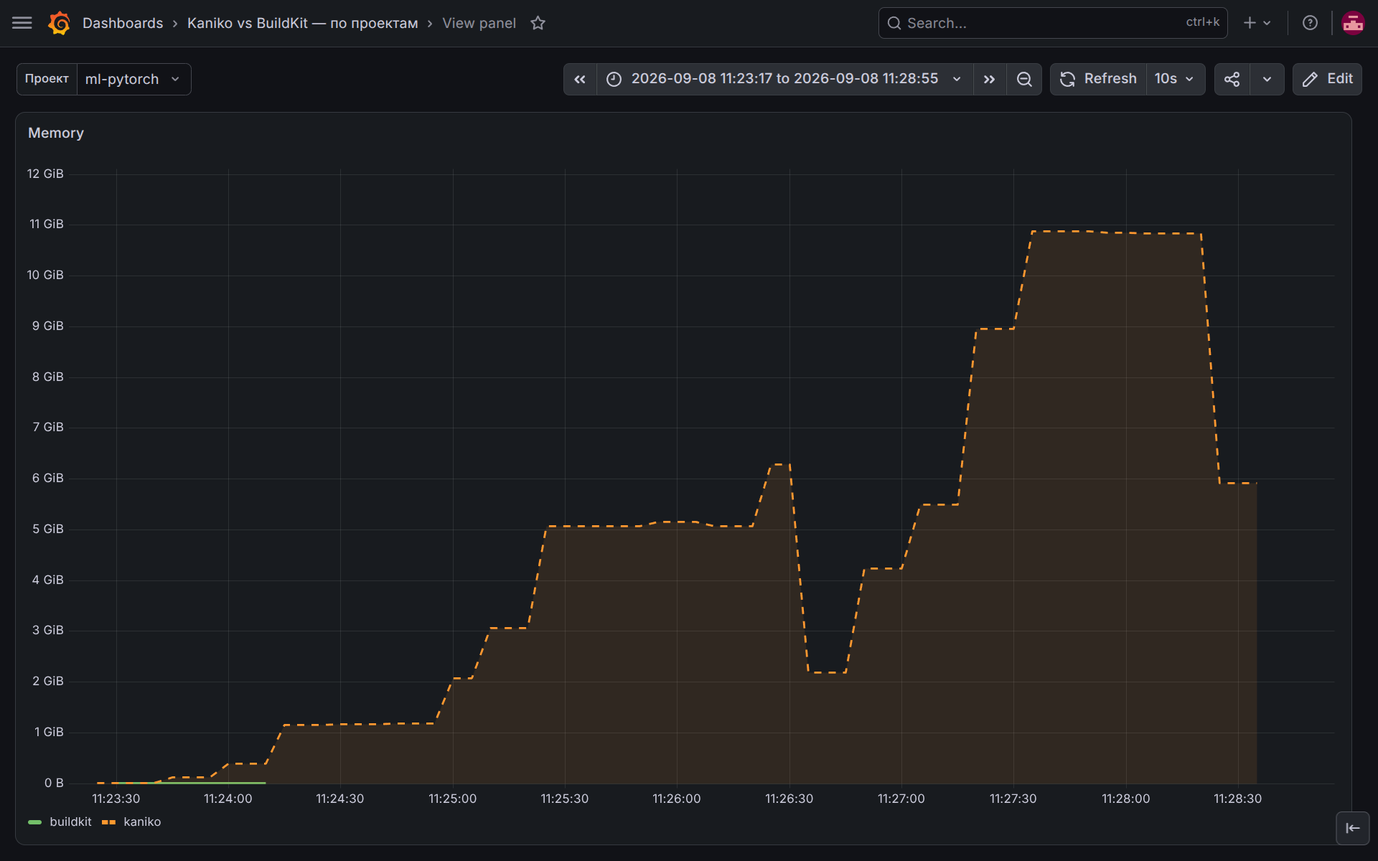
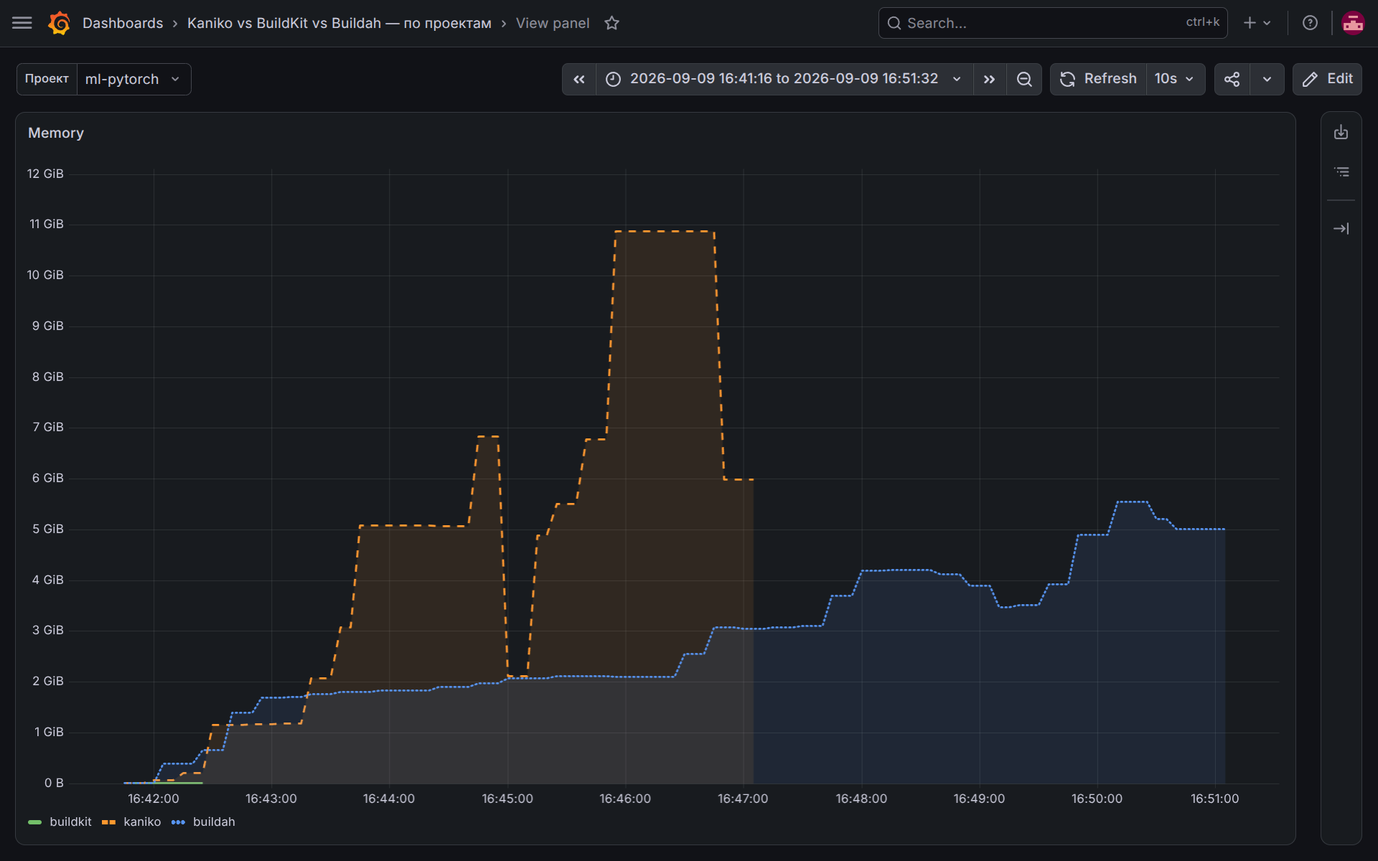
add Buildah to the benchmark

diff --git a/README.md b/README.md
@@ -1,17 +1,22 @@
-# Kaniko vs BuildKit: замеряем время, CPU и память сборки в кластере
+# Kaniko vs BuildKit vs Buildah: замеряем время, CPU и память сборки в кластере
 
 ## Введение
 
 В Kubernetes-кластере рано или поздно встаёт вопрос: **где собирать Docker image приложений?** Вариант «на своей машине разработчика» не масштабируется на команду. Вынос сборок на отдельную виртуальную машину решает эту проблему, но создаёт накладные расходы на обслуживание инфраструктуры и лишает ключевых преимуществ k8s: отдельная ВМ не масштабируется горизонтально под нагрузку, параллельные джобы конкурируют за общие CPU, RAM и диск, а накапливающийся кэш требует регулярной очистки.
 
-Классических ответов два — **Kaniko** и **BuildKit**. Kubernetes executor с использованием **Kaniko** или **BuildKit** лишен этих недостатков: сборка происходит в изолированных подах прямо на нодах кластера, ресурсы динамически масштабируются, а виртуальные машины для Docker-демона больше не требуются.
+Kubernetes executor с **Kaniko**, **BuildKit** или **Buildah** лишён этих недостатков: сборка происходит в изолированных подах прямо на нодах кластера, ресурсы динамически масштабируются, а виртуальные машины для Docker-демона больше не требуются.
 
 - **Kaniko** ([GoogleContainerTools/kaniko](https://github.com/GoogleContainerTools/kaniko)) — инструмент от Google для сборки без privileged-контейнера. С июня 2025 года репозиторий архивирован и проект больше не развивается.
 - **BuildKit** ([moby/buildkit](https://github.com/moby/buildkit)) — стандартный движок `docker build`, работающий в k8s в daemonless и rootless-режиме без привилегий ноды.
+- **Buildah** ([containers/buildah](https://github.com/podman-container-tools/buildah)) — daemonless-сборка OCI-образов (`buildah bud`) без Docker-демона. В этом стенде — образ `quay.io/buildah/stable:v1.43.2`, rootless `bud` с `--layers` и registry-кэшем (`--cache-from` / `--cache-to`).
 
-В этой статье будет протестировано **5 проектов** разных языков и фреймворков собираются обоими инструментами в одних и тех же условиях, с замером времени, потребления CPU/RAM и поведения кэша. В конце — **итоговая сводная таблица** и разбор **преимуществ и недостатков** каждого подхода для продакшна.
+**DinD не используется.** Docker-in-Docker требует `privileged = true`. В GitLab Runner (kubernetes executor) флаг `privileged` задаётся на уровне раннера, а не джоба: для DinD пришлось бы заводить **отдельный** GitLab Runner с `privileged = true` и другим тегом. Текущий раннер `k8s-benchmark` держит `privileged = false` — иначе условия замеров Kaniko / BuildKit / Buildah ломаются. Стенд выбран как раз ради сборки без привилегий.
 
-**Кэш.** Оба инструмента используют только registry-кэш. Локальный кэш на ноде намеренно не используется — он копится на диске и требует очистки. Registry-кэш чистить не нужно: манифест кэша перезаписывается на каждом прогоне, а мусор подчищает garbage collection реестра. Хранясь вне пода, он переживает пересоздание и смену ноды.
+В этой статье будет протестировано **5 проектов** разных языков и фреймворков, которые собираются тремя инструментами в одних и тех же условиях, с замером времени, потребления CPU/RAM и поведения кэша. В конце — **итоговая сводная таблица** и разбор **преимуществ и недостатков** каждого подхода для продакшна.
+
+**Кэш.** Все три инструмента используют только registry-кэш. Локальный кэш на ноде намеренно не используется — он копится на диске и требует очистки. Registry-кэш чистить не нужно: манифест кэша перезаписывается на каждом прогоне, а мусор подчищает garbage collection реестра. Хранясь вне пода, он переживает пересоздание и смену ноды.
+
+**Android.** APK **не закатывается в image** и **не загружается в registry**: после `assembleRelease` в Dockerfile выполняется `RUN rm` APK, финальный image не пушится (`--no-push` / `push=false` / без `--push`). Registry-кэш слоёв при этом остаётся. Замеряем только **build**, не скорость загрузки APK в registry.
 
 ## Сравниваемые проекты
 
@@ -22,8 +27,10 @@
 | 1 | **Next.js** | Node/React SSR | `npm ci` + сборка клиента | [`nextjs`](https://gitlab.com/buildkit-vs-kaniko-benchmark/nextjs) |
 | 2 | **Nuxt 3** | Node/Vue SSR | `npm ci` + сборка клиента | [`nuxtjs`](https://gitlab.com/buildkit-vs-kaniko-benchmark/nuxtjs) |
 | 3 | **Go HTTP-сервис** | Go | `go build` → статический бинарник (из scratch) | [`golang`](https://gitlab.com/buildkit-vs-kaniko-benchmark/golang) |
-| 4 | **Android APK** | Java/Kotlin, Gradle | `assembleRelease`, тяжёлый Gradle/SDK | [`android`](https://gitlab.com/buildkit-vs-kaniko-benchmark/android) |
+| 4 | **Android APK** | Java/Kotlin, Gradle | `assembleRelease`, тяжёлый Gradle/SDK; APK удаляется, image не пушится | [`android`](https://gitlab.com/buildkit-vs-kaniko-benchmark/android) |
 | 5 | **ML: PyTorch inference** | Python | `pip install torch` + скачивание ~1.3 ГБ весов в BUILD-стадии (public S3-бакет) | [`ml-pytorch`](https://gitlab.com/buildkit-vs-kaniko-benchmark/ml-pytorch) |
+
+**Слои без privileged.** Kaniko не монтирует overlay: распаковывает базовый образ в свой root и после каждой инструкции Dockerfile делает snapshot обходом файловой системы в userspace. BuildKit в rootless на ядре Ubuntu 5.15 складывает слои overlay в user namespace (RootlessKit) — `/dev/fuse` не нужен. Buildah собирает образ как контейнер: слои надо смонтировать в одно дерево. Kernel overlay в unprivileged-поде без `CAP_SYS_ADMIN` недоступен, fallback — fuse-overlayfs, для которого нужен `/dev/fuse`. В поде раннера этого устройства нет, поэтому rootless Buildah падает с `fuse: device /dev/fuse not found`. Без privileged остаются: смонтировать `/dev/fuse` в build-контейнер или storage-драйвер `vfs` (копирование слоёв без mount). В этом стенде у Buildah задан `STORAGE_DRIVER=vfs`.
 
 ## Архитектура стенда
 
@@ -45,9 +52,9 @@
 ```yaml
 gitlabUrl: https://gitlab.com/
 
-# Количество параллельно выполняемых джобов. Пара kaniko+buildkit одного
-# проекта запускается одновременно (2 джоба), поэтому 2 достаточно.
-concurrent: 2
+# Количество параллельно выполняемых джобов. Тройка kaniko+buildkit+buildah
+# одного проекта запускается одновременно (3 джоба), поэтому 3 достаточно.
+concurrent: 3
 
 # RBAC для создания/управления подами джобов.
 rbac:
@@ -67,7 +74,7 @@ runners:
   # (те же 4 CPU / 4 GiB, что были у старых K8s-джобов бенчмарка).
   config: |
     [[runners]]
-      request_concurrency = 2
+      request_concurrency = 3
       [runners.kubernetes]
         namespace = "{{ .Release.Namespace }}"
         image = "alpine:3.20"
@@ -83,7 +90,7 @@ runners:
         # с прежним стендом). BuildKit в rootless-режиме требует ослабленный
         # securityContext: seccomp/apparmor Unconfined (нужен unshare mount ns).
         privileged = false
-        allow_privilege_escalation = true
+        allow_privilege_escalation = false
         [runners.kubernetes.build_container_security_context]
           [runners.kubernetes.build_container_security_context.seccomp_profile]
             type = "Unconfined"
@@ -92,7 +99,7 @@ runners:
         # Имена подов джобов важны для Grafana: GitLab Runner включает в них
         # GitLab project ID (runner-…-project-<ID>-concurrent-…), по которому
         # дашборд различает проекты, а инструменты различаются по label `image`
-        # метрик cAdvisor (…/kaniko… vs …/buildkit…).
+        # метрик cAdvisor (…/kaniko… vs …/buildkit… vs …/buildah…).
         pull_policy = "if-not-present"
 
 resources:
@@ -134,13 +141,18 @@ Variables** задать необходимо задать YCR_REGISTRY_ID.
    # Для BuildKit (~/.docker/config.json):
    mkdir -p ~/.docker
    echo "{\"auths\":{\"$YCR_REGISTRY\":{\"auth\":\"$AUTH\"}}}" > ~/.docker/config.json
+
+   # Для Buildah (/home/build/.docker/config.json):
+   mkdir -p /home/build/.docker
+   echo "{\"auths\":{\"$YCR_REGISTRY\":{\"auth\":\"$AUTH\"}}}" > /home/build/.docker/config.json
    ```
-   Утилиты сборки (Kaniko и BuildKit) прозрачно считывают этот конфигурационный файл и аутентифицируются в реестре без необходимости хранить постоянные учетные данные.
+   Утилиты сборки (Kaniko, BuildKit и Buildah) прозрачно считывают этот конфигурационный файл и аутентифицируются в реестре без необходимости хранить постоянные учетные данные. В образе Buildah нет `wget` — IAM-токен там берётся через `curl`.
 
 ### 4. Перенос проектов в репозитории
 
-Эталонный `.gitlab-ci.yml` (одинаков для всех 5 проектов; `$CI_PROJECT_NAME`
-автоматически подставляет имя репозитория):
+Эталонный `.gitlab-ci.yml` (одинаков для nextjs / nuxtjs / golang / ml-pytorch;
+`$CI_PROJECT_NAME` автоматически подставляет имя репозитория). У **android**
+тот же набор джобов, но финальный image **не пушится** (см. ниже).
 
 ```yaml
 variables:
@@ -186,7 +198,37 @@ buildkit-build:
         --output "type=image,name=$YCR_REGISTRY/$YCR_REGISTRY_ID/$CI_PROJECT_NAME-buildkit:latest,push=true"
         --import-cache "type=registry,ref=$YCR_REGISTRY/$YCR_REGISTRY_ID/$CI_PROJECT_NAME-buildkit"
         --export-cache "type=registry,ref=$YCR_REGISTRY/$YCR_REGISTRY_ID/$CI_PROJECT_NAME-buildkit,mode=max"
+
+buildah-build:
+  stage: build
+  image: quay.io/buildah/stable:v1.43.2
+  variables:
+    DOCKER_CONFIG: /home/build/.docker
+    REGISTRY_AUTH_FILE: /home/build/.docker/config.json
+    BUILDAH_ISOLATION: chroot
+    STORAGE_DRIVER: vfs
+  before_script:
+    - export HOME=/home/build
+    - mkdir -p "$DOCKER_CONFIG"
+    - TOKEN=$(curl -sS -H "Metadata-Flavor: Google" "http://169.254.169.254/computeMetadata/v1/instance/service-accounts/default/token" | sed -n 's/.*"access_token":"\([^"]*\)".*/\1/p')
+    - AUTH_B64=$(printf 'iam:%s' "$TOKEN" | base64 | tr -d '\n')
+    - printf '{"auths":{"%s":{"auth":"%s"}}}' "$YCR_REGISTRY" "$AUTH_B64" > "$DOCKER_CONFIG/config.json"
+  script:
+    - buildah bud --layers
+        --cache-from "$YCR_REGISTRY/$YCR_REGISTRY_ID/$CI_PROJECT_NAME-buildah"
+        --cache-to "$YCR_REGISTRY/$YCR_REGISTRY_ID/$CI_PROJECT_NAME-buildah"
+        -t "$YCR_REGISTRY/$YCR_REGISTRY_ID/$CI_PROJECT_NAME-buildah:latest"
+        .
+    - buildah push "$YCR_REGISTRY/$YCR_REGISTRY_ID/$CI_PROJECT_NAME-buildah:latest"
 ```
+
+`--layers` у Buildah обязателен: без него `--cache-from` / `--cache-to` игнорируются.
+
+У **android** destination/push финального image отключается, registry-кэш слоёв остаётся:
+
+- Kaniko: `--no-push`
+- BuildKit: `push=false`
+- Buildah: без `buildah push`
 
 Ослабленный securityContext для rootless BuildKit (`seccompProfile: Unconfined`,
 `appArmorProfile: Unconfined`) задаётся на уровне раннера в
@@ -201,7 +243,8 @@ buildkit-build:
 ### Скриншоты дашборда
 
 Скриншоты сняты на **тёплом прогоне** (с прогретым registry-кэшем) — сравнение
-Kaniko и BuildKit в одинаковых условиях кэш-хита.
+Kaniko и BuildKit в одинаковых условиях кэш-хита. Серии Buildah появятся после
+прогона тройки инструментов.
 
 *Next.js — потребление CPU (BuildKit слева, Kaniko справа), тёплый кэш.*
 ![Next.js — потребление CPU на тёплом кэше](img/nextjs-cpu.png "Next.js — CPU")
@@ -234,6 +277,9 @@ Kaniko и BuildKit в одинаковых условиях кэш-хита.
 ![ML: PyTorch inference — потребление памяти на тёплом кэше](img/ml-pytorch-memory.png "ML: PyTorch — Memory")
 
 ### Итоговая сводная таблица (тёплый кэш)
+
+Цифры ниже — прогон Kaniko vs BuildKit. Колонка Buildah будет заполнена после
+прогона тройки инструментов.
 
 | Проект | Время kaniko (с) | Время buildkit (с) | Выигрыш BuildKit % |
 |---|---|---|---|

diff --git a/gitlab-runner/README.md b/gitlab-runner/README.md
@@ -7,8 +7,8 @@
 
 Официальный [helm-чарт GitLab Runner](https://gitlab.com/gitlab-org/charts/gitlab-runner)
 с executor **kubernetes**: для каждого CI-джоба раннер создаёт отдельный под в
-namespace `gitlab-runner`. Именно в этом поде выполняется `kaniko-build` или
-`buildkit-build` (см. `.gitlab-ci.yml` в репозиториях проектов).
+namespace `gitlab-runner`. Именно в этом поде выполняется `kaniko-build`,
+`buildkit-build` или `buildah-build` (см. `.gitlab-ci.yml` в репозиториях проектов).
 
 Метрики CPU/RAM этих подов снимает cAdvisor (через vmks) — они попадают в
 VictoriaMetrics и отображаются в Grafana.
@@ -60,7 +60,7 @@ kubectl -n gitlab-runner logs deploy/gitlab-runner
 | Параметр | Значение |
 |---|---|
 | `gitlabUrl` | `https://gitlab.com/` |
-| `concurrent` | `2` (пара kaniko+buildkit одного проекта параллельно) |
+| `concurrent` | `3` (тройка kaniko+buildkit+buildah одного проекта параллельно) |
 | `rbac.create` | `true` (права на создание подов) |
 | `runners.executor` | `kubernetes` |
 | `runners.tags` | `k8s-benchmark` (тег, по которому джобы выбирают раннер) |
@@ -72,7 +72,7 @@ kubectl -n gitlab-runner logs deploy/gitlab-runner
 лимитами старых K8s-джобов бенчмарка — условия замеров сохраняются.
 
 Build-контейнер работает без privileged (`privileged = false`,
-`allow_privilege_escalation = true`) — daemonless-сборка без docker.sock и без
+`allow_privilege_escalation = false`) — daemonless-сборка без docker.sock и без
 privileged-ноды. Для rootless BuildKit build-контейнеру задан ослабленный
 securityContext (`seccompProfile: Unconfined`, `appArmorProfile: Unconfined`),
 Kaniko это не нужно, но условия джобов уравнены.
@@ -83,6 +83,6 @@ Kaniko это не нужно, но условия джобов уравнены
   (в `before_script` каждого job'а) — сервисный аккаунт нод кластера уже имеет
   роли `container-registry.images.pusher/puller` (см. `registry.tf`).
 - Имена подов джобов не важны для Grafana: инструменты различаются по label
-  `image` метрик cAdvisor (`…/moby/buildkit…` vs `…/kaniko-project/executor…`).
+  `image` метрик cAdvisor (`…/moby/buildkit…` vs `…/kaniko-project/executor…` vs `…/buildah…`).
 - Если требуется сменить версию чарта/образа — поменяйте `--version` в команде
   установки (актуальная версия в https://charts.gitlab.io/index.yaml).

diff --git a/dashboards/README.md b/dashboards/README.md
@@ -1,15 +1,15 @@
-# Dashboard бенчмарка Kaniko vs BuildKit
+# Dashboard бенчмарка Kaniko vs BuildKit vs Buildah
 
 `kaniko-vs-buildkit-per-project.json` — Grafana-дашборд с двумя панелями для
-сравнения инструментов (**BuildKit** vs **Kaniko**) **по одному выбранному проекту**:
+сравнения инструментов (**BuildKit** vs **Kaniko** vs **Buildah**) **по одному выбранному проекту**:
 
-- **CPU** — CPU rate (cores) build-контейнеров джобов `buildkit-build` и `kaniko-build`;
+- **CPU** — CPU rate (cores) build-контейнеров джобов `buildkit-build`, `kaniko-build` и `buildah-build`;
 - **Memory** — memory working set (bytes) build-контейнеров.
 
 ## Как различаются инструмент и проект
 
 **Инструмент** — по label `image` метрик cAdvisor
-(`…/moby/buildkit…` vs `…/kaniko-project/executor…`). Поды джобов GitLab Runner
+(`…/moby/buildkit…` vs `…/kaniko-project/executor…` vs `…/buildah…`). Поды джобов GitLab Runner
 (executor kubernetes) создаются в namespace `gitlab-runner` с build-контейнером
 по имени `build`.
 
@@ -61,8 +61,9 @@ Datasource — `VictoriaMetrics` (UID `VictoriaMetrics`).
 
 - Серии визуально различаются на всех панелях через `fieldConfig.overrides`
   (matcher `byFrameRefID`): **buildkit** (refId A) — зелёная сплошная линия,
-  **kaniko** (refId B) — оранжевая пунктирная (`lineStyle.dash`).
-- Легенды серий — `buildkit` / `kaniko`. Если в выбранном тайм-рейндже было
+  **kaniko** (refId B) — оранжевая пунктирная (`lineStyle.dash`),
+  **buildah** (refId C) — синяя точечная (`lineStyle.dot`).
+- Легенды серий — `buildkit` / `kaniko` / `buildah`. Если в выбранном тайм-рейндже было
   несколько прогонов одного проекта, на панели будет несколько серий с одинаковой
   легендой (по одной на под джоба); различать их по времени и по подсказке с
   именем пода (`graphTooltip` = shared crosshair).
